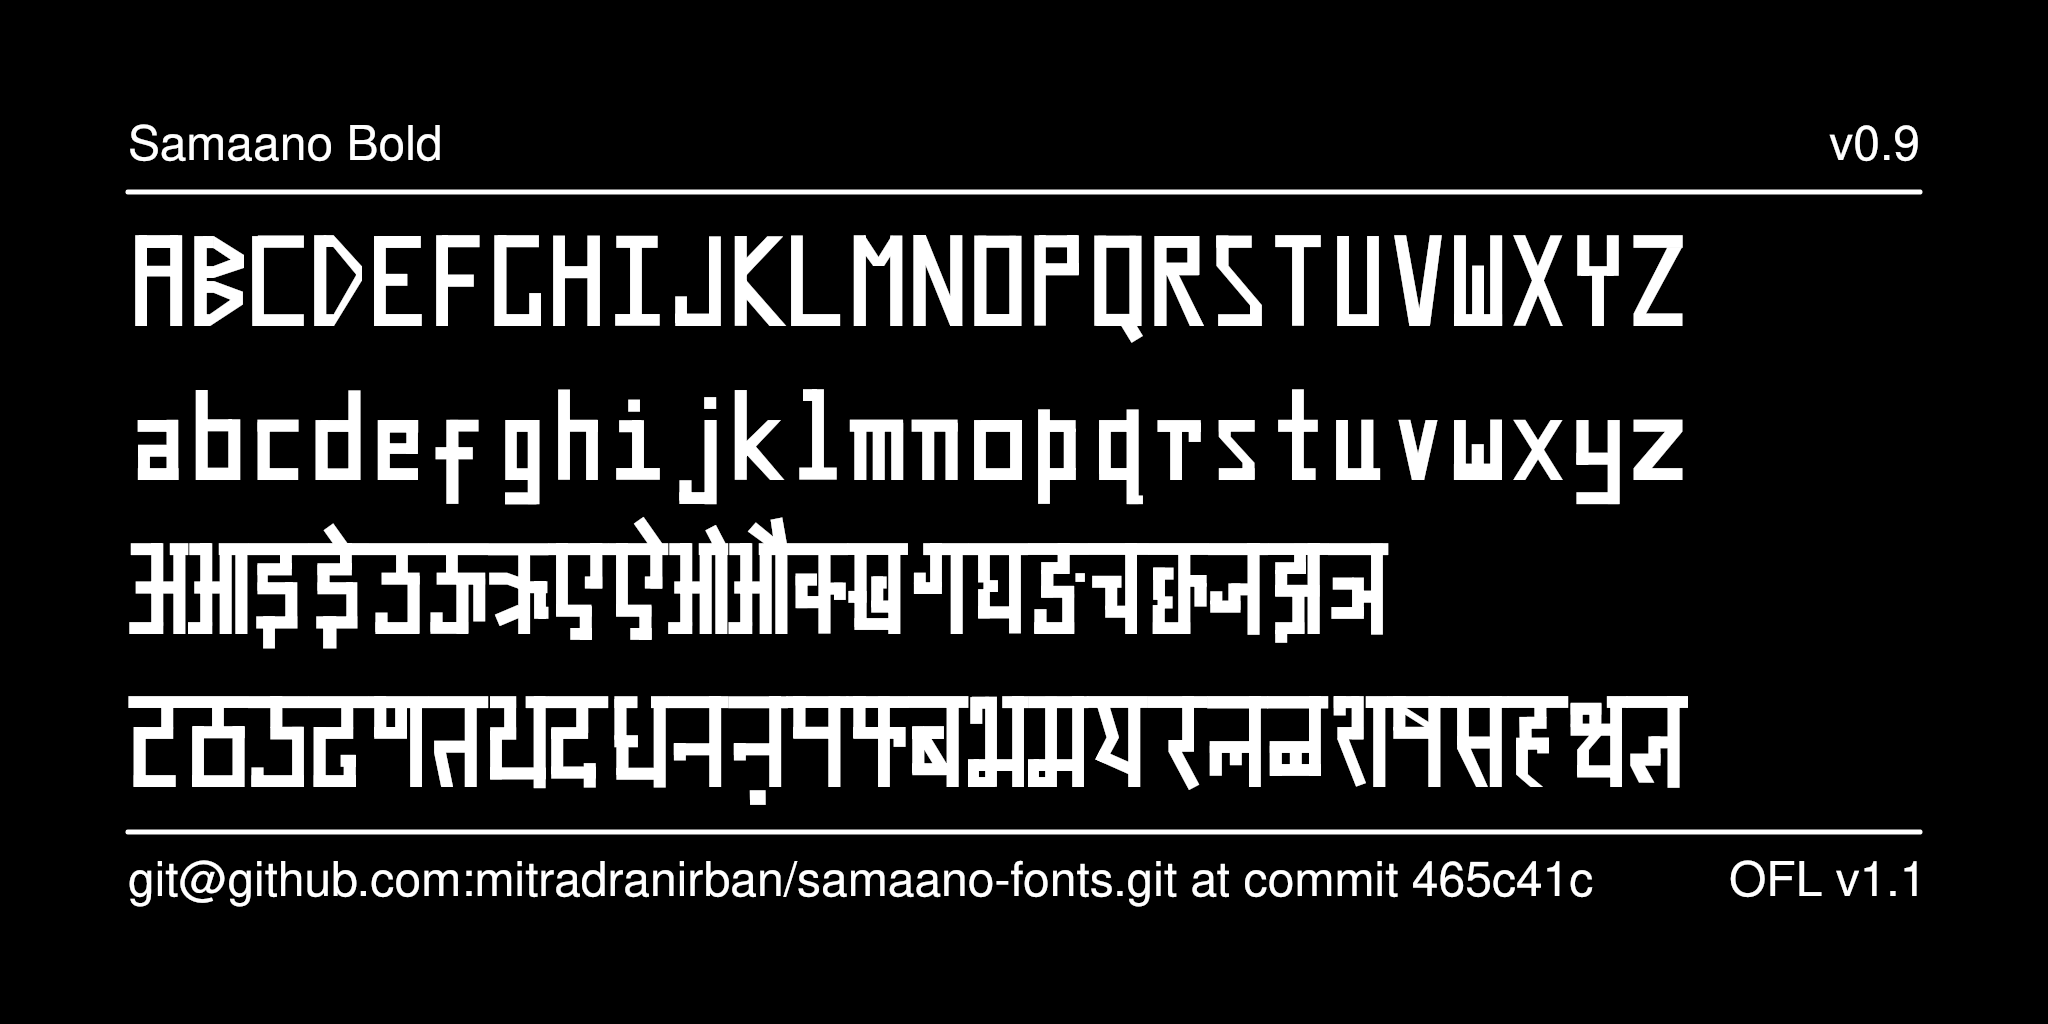
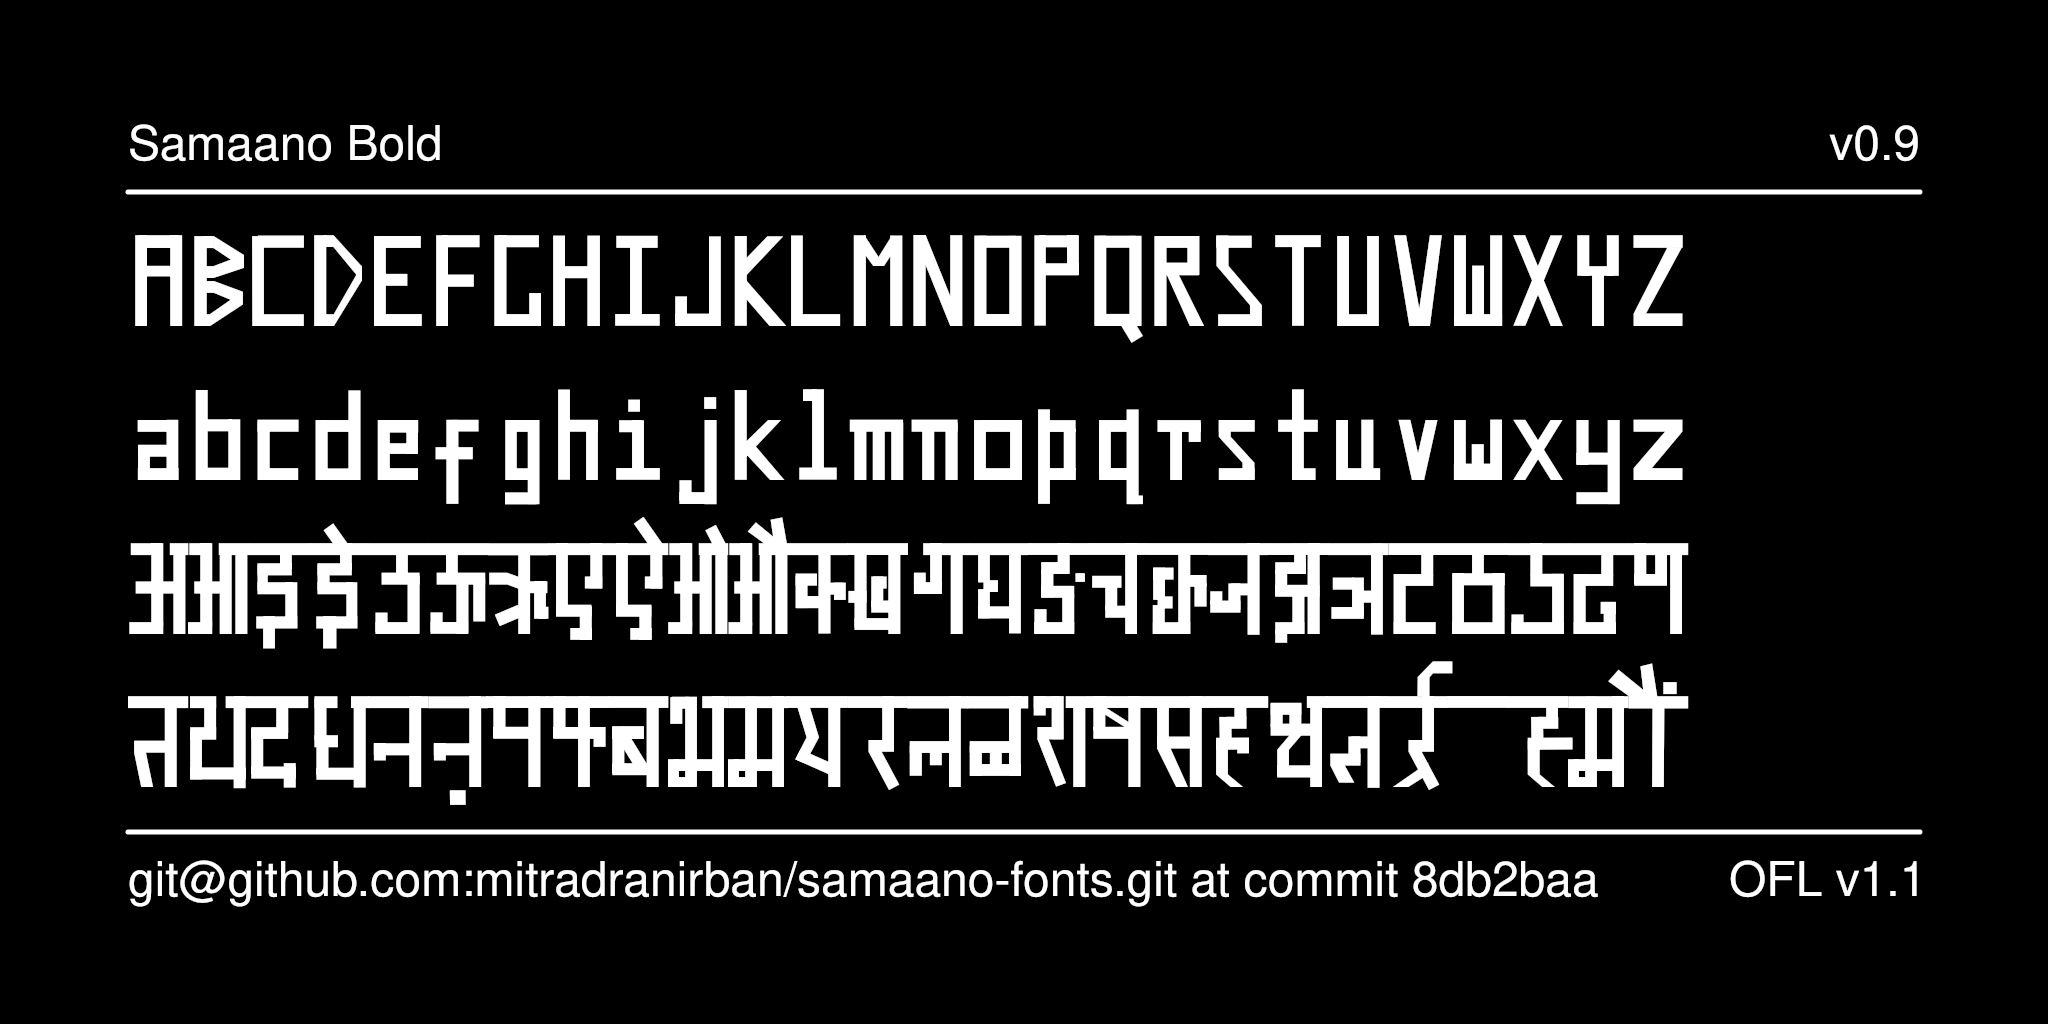
202410022230

Changed region(s): [[0.0625, 0.5312, 0.8438, 0.7812], [0.6875, 0.8438, 0.7812, 0.875]]

diff --git a/documentation/image2.py b/documentation/image2.py
@@ -23,8 +23,8 @@ AUXILIARY_FONT_SIZE = 48
 
 LINE_ONE = "ABCDEFGHIJKLMNOPQRSTUVWXYZ "
 LINE_TWO = "abcdefghijklmnopqrstuvwxyz"
-LINE_THREE = "अआइईउऊऋएऐओऔकखगघङचछजझञ"
-LINE_FOUR = "टठडढणतथदधनऩपफबभमयरलळशषसहक्षज्ञ"
+LINE_THREE = "अआइईउऊऋएऐओऔकखगघङचछजझञटठडढण"
+LINE_FOUR = "तथदधनऩपफबभमयरलळशषसहक्षज्ञर्र्रह्मौं"
 BIG_TEXT_FONT_SIZE = 120
 BIG_TEXT_SIDE_MARGIN = MARGIN * 1
 BIG_TEXT_BOTTOM_MARGIN = MARGIN * 5.45
